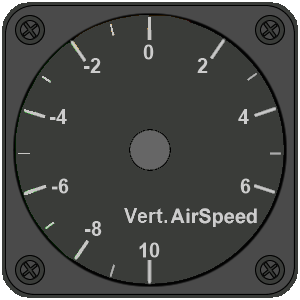
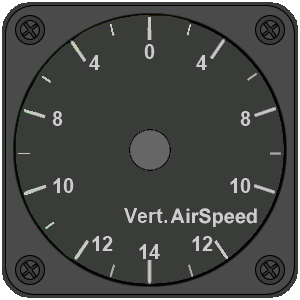
Gauge Updates, Slider Update
Solutions applied:
added dp code where appropriate for gauge hands and drone image.
Changed distance and altitude gauge images to fix unit values that were inconsistent with gauge (500->50, 1000->100)
Changed vertical air speed gauge image to increase range of units (0-10 now becomes 0 -14) Also added logic to prevent gauge from exceeding +/-14.
Updated slider class as well as reduced slider size to eliminate or reduce odd behaviour issues.  The the touch event was being corrupted by both object overlap as well as Kivy's poor handling of touch event functionality overall.  Applying this update to see how it behaves across all platforms.

diff --git a/src/main.py b/src/main.py
@@ -1000,8 +1000,8 @@ class MainApp(MDApp):
             self.root.ids.HSPDgauge.value = round(locale.atof(record[self.columns.index('speed2')]))
             # Chris
             # Added conditional to simply "peg out" the gauge one way or the other if beyond the vertical limits
-            if round(locale.atof(record[self.columns.index('speed2vert')])) > 10 or round(locale.atof(record[self.columns.index('speed2vert')])) < -10:
-                self.root.ids.VSPDgauge.value = 10
+            if round(locale.atof(record[self.columns.index('speed2vert')])) > 14 or round(locale.atof(record[self.columns.index('speed2vert')])) < -14:
+                self.root.ids.VSPDgauge.value = 14
             else: 
                 self.root.ids.VSPDgauge.value = round(locale.atof(record[self.columns.index('speed2vert')]))
 
@@ -2248,24 +2248,28 @@ class DistGauge(Widget):
             size=(self.size_gauge, self.size_gauge)
         )
         self._needleL = Scatter(
-            size=(self.size_gauge, self.size_gauge),
+            #size=(self.size_gauge, self.size_gauge)  # Chris added dp because size does not propagate to the children from parent.
+            size=(dp(self.size_gauge), dp(self.size_gauge)),
             do_rotation=False,
             do_scale=False,
             do_translation=False
         )
         self._needleS = Scatter(
-            size=(self.size_gauge, self.size_gauge),
+            #size=(self.size_gauge, self.size_gauge)  # Chris added dp because size does not propagate to the children from parent.
+            size=(dp(self.size_gauge), dp(self.size_gauge)),
             do_rotation=False,
             do_scale=False,
             do_translation=False
         )
         _img_needle_short = Image(
             source=self.file_needle_short,
-            size=(self.size_gauge, self.size_gauge)
+            #size=(self.size_gauge, self.size_gauge)  # Chris added dp because size does not propagate to the children from parent.
+            size=(dp(self.size_gauge), dp(self.size_gauge))
         )
         _img_needle_long = Image(
             source=self.file_needle_long,
-            size=(self.size_gauge, self.size_gauge)
+            #size=(self.size_gauge, self.size_gauge)  # Chris added dp because size does not propagate to the children from parent.
+            size=(dp(self.size_gauge), dp(self.size_gauge))
         )
         self._glab = Label(font_size=dp(14), markup=True, color=[0.41, 0.42, 0.74, 1])
         self._glab2 = Label(font_size=dp(12), markup=True, color=[1, 1, 1, 1])
@@ -2329,24 +2333,28 @@ class AltGauge(Widget):
             size=(self.size_gauge, self.size_gauge)
         )
         self._needleL = Scatter(
-            size=(self.size_gauge, self.size_gauge),
+            #size=(self.size_gauge, self.size_gauge)  # Chris added dp because size does not propagate to the children from parent.
+            size=(dp(self.size_gauge), dp(self.size_gauge)),
             do_rotation=False,
             do_scale=False,
             do_translation=False
         )
         self._needleS = Scatter(
-            size=(self.size_gauge, self.size_gauge),
+            #size=(self.size_gauge, self.size_gauge)  # Chris added dp because size does not propagate to the children from parent.
+            size=(dp(self.size_gauge), dp(self.size_gauge)),
             do_rotation=False,
             do_scale=False,
             do_translation=False
         )        
         _img_needle_short = Image(
             source=self.file_needle_short,
-            size=(self.size_gauge, self.size_gauge)
+            #size=(self.size_gauge, self.size_gauge)  # Chris added dp because size does not propagate to the children from parent.
+            size=(dp(self.size_gauge), dp(self.size_gauge))
         )
         _img_needle_long = Image(
             source=self.file_needle_long,
-            size=(self.size_gauge, self.size_gauge)
+            #size=(self.size_gauge, self.size_gauge)  # Chris added dp because size does not propagate to the children from parent.
+            size=(dp(self.size_gauge), dp(self.size_gauge))
         )
         self._glab = Label(font_size=dp(14), markup=True, color=[0.41, 0.42, 0.74, 1])
         self._glab2 = Label(font_size=dp(12), markup=True, color=[1, 1, 1, 1])
@@ -2452,7 +2460,7 @@ Vertical Speed Gauge
 class VGauge(Widget):
     display_unit = StringProperty("")
     unit = NumericProperty(1.8)
-    value = BoundedNumericProperty(0, min=-10, max=10, errorvalue=0) # Changed Max to 10   Chris
+    value = BoundedNumericProperty(0, min=-14, max=14, errorvalue=0) # Changed Max to 14   Chris
     file_gauge = StringProperty("assets/AirSpeedIndicator_Background_V.png")
     file_needle = StringProperty("assets/needle.png")
     size_gauge = dp(150) #180
@@ -2504,7 +2512,8 @@ class VGauge(Widget):
         self._needle.center_x = self._gauge.center_x
         self._needle.center_y = self._gauge.center_y
         #self._needle.rotation = (100 * self.unit) - (self.value * self.unit * 20)
-        self._needle.rotation = -(self.value * self.unit * 10)
+        #self._needle.rotation = -(self.value * self.unit * 10)
+        self._needle.rotation = -(self.value * self.unit * 5.5)    # Chris updated scale to max out at 14
         self._glab2.text = self.display_unit
 
 
@@ -2540,15 +2549,16 @@ class HeadingGauge(Widget):
             do_translation=False
         )
         self._aircrafT = Scatter(
-            size=(self.size_gauge, self.size_gauge),
+            #size=(self.size_gauge, self.size_gauge),
+            size=(dp(self.size_gauge), dp(self.size_gauge)),
             do_rotation=False,
             do_scale=False,
             do_translation=False
         )
         _img_aircraft = Image(
             source=self.file_heading_aircraft,
-            size=(self.size_gauge, self.size_gauge)
-        )
+            size=(self.size_gauge, self.size_gauge)  
+         )
         _img_heading_ring = Image(
             source=self.file_heading_ring,
             size=(self.size_gauge, self.size_gauge)
@@ -2573,8 +2583,9 @@ class HeadingGauge(Widget):
         self._headingR.center_x = self._gauge.center_x
         self._headingR.center_y = self._gauge.center_y
         self._headingR.rotation = (1 * self.unit) - (self.value * 1)  # Chris change math mistake + to -
-        self._aircrafT.center_y = self._gauge.center_y
-        self._aircrafT.rotation = (1 * self.unit) + (self.drotation * 1)
+        # Chris removed code as it is not needed and was causing issues with dp placement
+        #self._aircrafT.center_y = self._gauge.center_y
+        #self._aircrafT.rotation = (1 * self.unit) + (self.drotation * 1)
 
 
 class ProgressSlider(BoxLayout):
@@ -2592,16 +2603,45 @@ class ProgressSlider(BoxLayout):
         self.slider.cursor_color = (1, 0, 0, 1)
         self.add_widget(self.slider)
 
-    def reset_slider(self,value):
-        self.slider.value = 0
-        printer("slider reset")
+    # def reset_slider(self,value):
+    #     self.slider.value = 0
+    #     printer("slider reset")
 
     def on_progress_slider_value_change(self, instance, value):
         MDApp.get_running_app().on_progress_slider_value_change(instance, value)  
 
+    # def on_touch_down(self, touch, instance):  
+    #   if self.collide_point(touch.x, touch.y):  
+    #     print("Touch down on the slider!")  
+    #     play_button = MDApp.get_running_app().root.ids['playbutton']
+    #     icon_name = play_button.icon
+    #     if icon_name == "play":
+    #         return
+    #     else:
+    #         play_button.trigger_action(duration=0.1)
+    #   else:
+    #     print("NOT THE SLIDER")
+    #     # touch.grab(self)  # grab the touch event to prevent other widgets from stealing it  
+    # #   #   return True
+    # #   return super(ProgressSlider, self).on_touch_down(touch)  
+      
+    # def on_touch_up(self, touch):  
+    #   if touch.grab_current is self:  
+    #     print("Touch up on the slider!")  
+    #     touch.ungrab(self)  # release the touch event  
+    #     return True  
+    #   return super(ProgressSlider, self).on_touch_up(touch)          
+
     def on_touch_move(self, touch):
         if self.collide_point(touch.x, touch.y):
-            #print("Touch down on the slider!")
+            print("Touch down on the slider!")
+            play_button = MDApp.get_running_app().root.ids['playbutton']
+            icon_name = play_button.icon
+            if icon_name == "play":
+                return
+            else:
+                play_button.trigger_action(duration=0.1)
+        else:
             play_button = MDApp.get_running_app().root.ids['playbutton']
             icon_name = play_button.icon
             if icon_name == "play":
@@ -2609,24 +2649,24 @@ class ProgressSlider(BoxLayout):
             else:
                 play_button.trigger_action(duration=0.1)
 
-    def on_value_throttled(self, instance, value):
-        print(f"Value throttled: {value}")
+    # def on_value_throttled(self, instance, value):
+    #     print(f"Value throttled: {value}")
 
-    def on_value(self, instance, value):
-        print(f"Slider value changed to {value}")
+    # def on_value(self, instance, value):
+    #     print(f"Slider value changed to {value}")
 
-    def update_value(self, new_value):
-        if new_value < self.slider.min:
-            #self.value = self.min
-            self.slider.value = self.slider.min
-        elif new_value > self.slider.max:
-            self.slider.value = self.slider.max
-        else:
-            self.slider.value = new_value
-        self.slider.invalidate()  
-        self.slider.canvas.ask_update()  
-        Clock.schedule_once(self.slider._do_layout, 0)  
-        self.slider._update_graphics()
+    # def update_value(self, new_value):
+    #     if new_value < self.slider.min:
+    #         #self.value = self.min
+    #         self.slider.value = self.slider.min
+    #     elif new_value > self.slider.max:
+    #         self.slider.value = self.slider.max
+    #     else:
+    #         self.slider.value = new_value
+    #     self.slider.invalidate()  
+    #     self.slider.canvas.ask_update()  
+    #     Clock.schedule_once(self.slider._do_layout, 0)  
+    #     self.slider._update_graphics()
 
 
 """  
